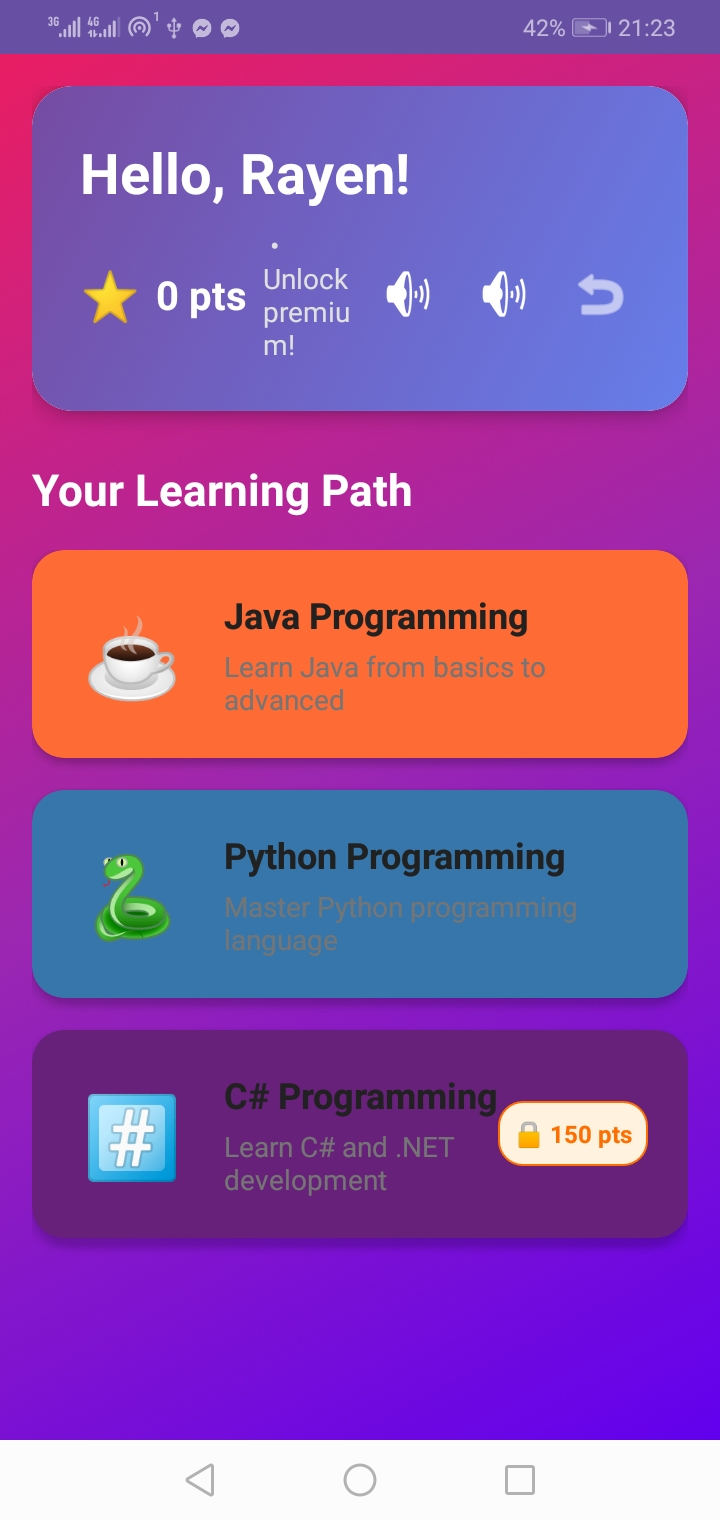
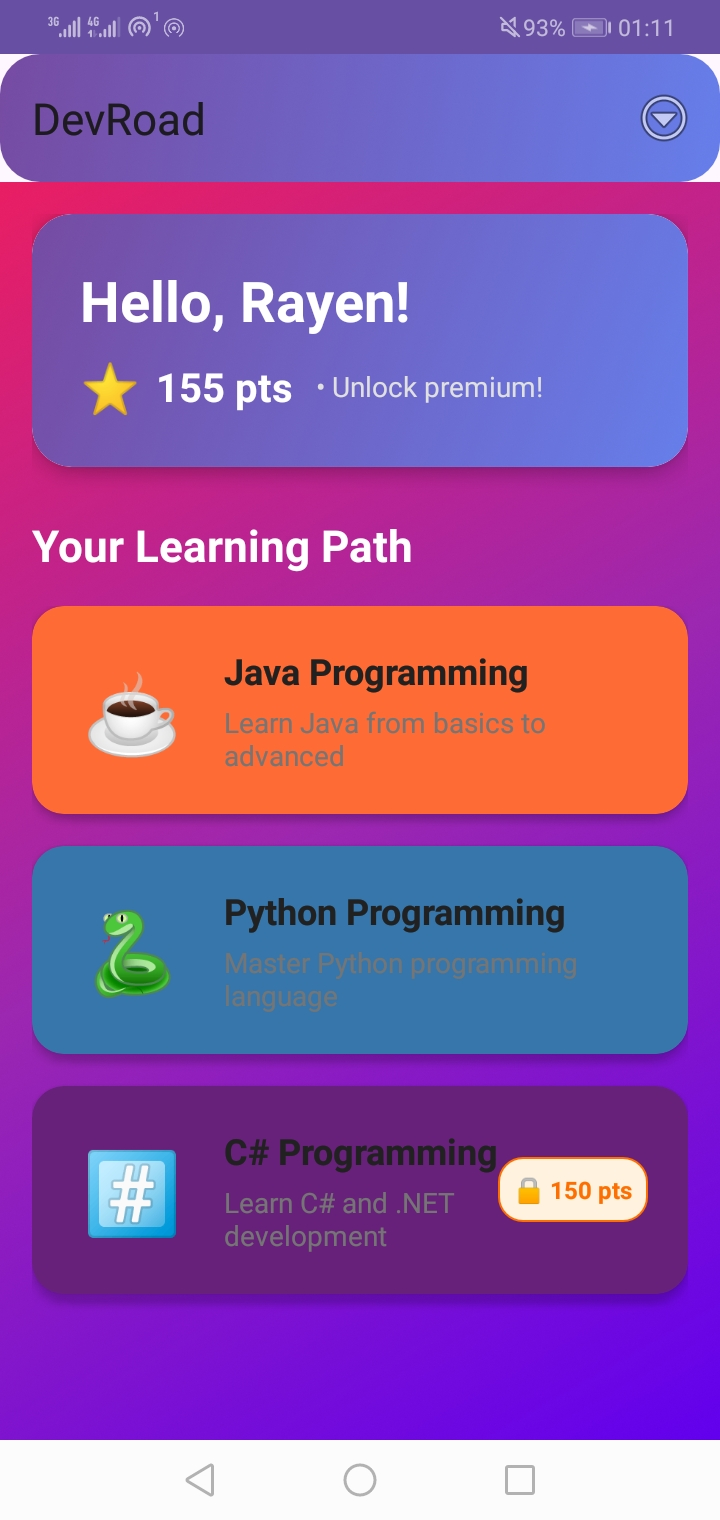
add menu

diff --git a/app/src/main/java/com/example/devroad/HomeActivity.java b/app/src/main/java/com/example/devroad/HomeActivity.java
@@ -2,9 +2,9 @@ package com.example.devroad;
 
 import android.content.Intent;
 import android.os.Bundle;
+import android.view.Menu;
+import android.view.MenuItem;
 import android.view.View;
-import android.view.animation.AnimationUtils;
-import android.widget.ImageButton;
 import android.widget.TextView;
 import android.widget.Toast;
 import androidx.appcompat.app.AppCompatActivity;
@@ -29,19 +29,25 @@ public class HomeActivity extends AppCompatActivity {
     private TextView scoreText;
     private RecyclerView coursesRecyclerView;
     private View progressBar;
-    private ImageButton musicToggleButton;
-    private ImageButton soundEffectsToggleButton;
-    private ImageButton logoutButton;
     
     private SessionManager sessionManager;
     private SupabaseClient supabaseClient;
     private CoursAdapter coursAdapter;
     private SoundManager soundManager;
     
+    // Menu items
+    private MenuItem musicMenuItem;
+    private MenuItem soundEffectsMenuItem;
+    
     @Override
     protected void onCreate(Bundle savedInstanceState) {
         super.onCreate(savedInstanceState);
         setContentView(R.layout.activity_home);
+        
+        // Set up toolbar
+        androidx.appcompat.widget.Toolbar toolbar = findViewById(R.id.toolbar);
+        setSupportActionBar(toolbar);
+        getSupportActionBar().setTitle("DevRoad");
         
         sessionManager = new SessionManager(this);
         supabaseClient = SupabaseClient.getInstance();
@@ -61,79 +67,9 @@ public class HomeActivity extends AppCompatActivity {
         scoreText = findViewById(R.id.score_text);
         coursesRecyclerView = findViewById(R.id.courses_recycler);
         progressBar = findViewById(R.id.progress_bar);
-        musicToggleButton = findViewById(R.id.music_toggle_button);
-        soundEffectsToggleButton = findViewById(R.id.sound_effects_toggle_button);
-        logoutButton = findViewById(R.id.logout_button);
         
         usernameText.setText("Hello, " + sessionManager.getUsername() + "!");
         scoreText.setText(sessionManager.getScore() + " pts");
-        
-        // Setup sound control buttons
-        updateSoundButtons();
-        
-        musicToggleButton.setOnClickListener(v -> {
-            soundManager.toggleMusic();
-            updateSoundButtons();
-            
-            // Visual feedback
-            v.animate()
-                    .scaleX(0.8f)
-                    .scaleY(0.8f)
-                    .setDuration(100)
-                    .withEndAction(() -> v.animate()
-                            .scaleX(1f)
-                            .scaleY(1f)
-                            .setDuration(100)
-                            .start())
-                    .start();
-            
-            Toast.makeText(this, 
-                    soundManager.isMusicEnabled() ? "🎵 Music ON" : "🔇 Music OFF", 
-                    Toast.LENGTH_SHORT).show();
-        });
-        
-        soundEffectsToggleButton.setOnClickListener(v -> {
-            soundManager.toggleSoundEffects();
-            updateSoundButtons();
-            
-            // Test sound effect when enabled
-            if (soundManager.areSoundEffectsEnabled()) {
-                soundManager.playCorrectSound();
-            }
-            
-            // Visual feedback
-            v.animate()
-                    .scaleX(0.8f)
-                    .scaleY(0.8f)
-                    .setDuration(100)
-                    .withEndAction(() -> v.animate()
-                            .scaleX(1f)
-                            .scaleY(1f)
-                            .setDuration(100)
-                            .start())
-                    .start();
-            
-            Toast.makeText(this, 
-                    soundManager.areSoundEffectsEnabled() ? "🔊 Effects ON" : "🔇 Effects OFF", 
-                    Toast.LENGTH_SHORT).show();
-        });
-        
-        logoutButton.setOnClickListener(v -> {
-            // Visual feedback
-            v.animate()
-                    .scaleX(0.8f)
-                    .scaleY(0.8f)
-                    .setDuration(100)
-                    .withEndAction(() -> {
-                        v.animate()
-                                .scaleX(1f)
-                                .scaleY(1f)
-                                .setDuration(100)
-                                .start();
-                        performLogout();
-                    })
-                    .start();
-        });
         
         // Animate header
         View headerCard = findViewById(R.id.header_card);
@@ -150,25 +86,95 @@ public class HomeActivity extends AppCompatActivity {
         coursesRecyclerView.setAdapter(coursAdapter);
     }
     
-    private void updateSoundButtons() {
-        // Update music button icon
-        if (soundManager.isMusicEnabled()) {
-            musicToggleButton.setImageResource(android.R.drawable.ic_lock_silent_mode_off);
-            musicToggleButton.setAlpha(1.0f);
-        } else {
-            musicToggleButton.setImageResource(android.R.drawable.ic_lock_silent_mode);
-            musicToggleButton.setAlpha(0.5f);
+    /**
+     * Inflate the options menu
+     */
+    @Override
+    public boolean onCreateOptionsMenu(Menu menu) {
+        getMenuInflater().inflate(R.menu.menu_home, menu);
+        
+        // Get menu items for later updates
+        musicMenuItem = menu.findItem(R.id.menu_music);
+        soundEffectsMenuItem = menu.findItem(R.id.menu_sound_effects);
+        
+        // Update menu item titles with current states
+        updateMenuItemTitles();
+        
+        return true;
+    }
+    
+    /**
+     * Handle menu item clicks
+     */
+    @Override
+    public boolean onOptionsItemSelected(MenuItem item) {
+        int itemId = item.getItemId();
+        
+        if (itemId == R.id.menu_music) {
+            toggleMusic();
+            return true;
+        } else if (itemId == R.id.menu_sound_effects) {
+            toggleSoundEffects();
+            return true;
+        } else if (itemId == R.id.menu_logout) {
+            performLogout();
+            return true;
         }
         
-        // Update sound effects button icon
-        if (soundManager.areSoundEffectsEnabled()) {
-            soundEffectsToggleButton.setImageResource(android.R.drawable.ic_lock_silent_mode_off);
-            soundEffectsToggleButton.setAlpha(1.0f);
-        } else {
-            soundEffectsToggleButton.setImageResource(android.R.drawable.ic_lock_silent_mode);
-            soundEffectsToggleButton.setAlpha(0.5f);
+        return super.onOptionsItemSelected(item);
+    }
+    
+    /**
+     * Update menu item titles to reflect current state
+     */
+    private void updateMenuItemTitles() {
+        if (musicMenuItem != null) {
+            String musicState = soundManager.isMusicEnabled() ? "ON" : "OFF";
+            musicMenuItem.setTitle("Background Music: " + musicState);
+        }
+        
+        if (soundEffectsMenuItem != null) {
+            String effectsState = soundManager.areSoundEffectsEnabled() ? "ON" : "OFF";
+            soundEffectsMenuItem.setTitle("Sound Effects: " + effectsState);
         }
     }
+    
+    /**
+     * Toggle background music on/off
+     */
+    private void toggleMusic() {
+        soundManager.toggleMusic();
+        updateMenuItemTitles();
+        
+        Toast.makeText(this, 
+                soundManager.isMusicEnabled() ? "🎵 Background Music: ON" : "🔇 Background Music: OFF", 
+                Toast.LENGTH_SHORT).show();
+    }
+    
+    /**
+     * Toggle sound effects on/off
+     */
+    private void toggleSoundEffects() {
+        soundManager.toggleSoundEffects();
+        updateMenuItemTitles();
+        
+        // Play a test sound effect when enabling
+        if (soundManager.areSoundEffectsEnabled()) {
+            soundManager.playCorrectSound();
+            Toast.makeText(this, 
+                    "🔊 Sound Effects: ON", 
+                    Toast.LENGTH_SHORT).show();
+        } else {
+            Toast.makeText(this, 
+                    "🔇 Sound Effects: OFF", 
+                    Toast.LENGTH_SHORT).show();
+        }
+    }
+    
+    private void updateSoundButtons() {
+        // This method is no longer needed, but kept for compatibility if referenced elsewhere
+    }
+    
     
     private void loadUserData() {
         // Could fetch updated user data from Supabase here

diff --git a/app/src/main/java/com/example/devroad/Adapters/CoursAdapter.java b/app/src/main/java/com/example/devroad/Adapters/CoursAdapter.java
@@ -15,7 +15,7 @@ import com.example.devroad.R;
 
 import java.util.List;
 
-public class CoursAdapter extends RecyclerView.Adapter<CoursAdapter.CoursViewHolder> {
+public class  CoursAdapter extends RecyclerView.Adapter<CoursAdapter.CoursViewHolder> {
 
     private List<Cours> courses;
     private OnCourseClickListener listener;
